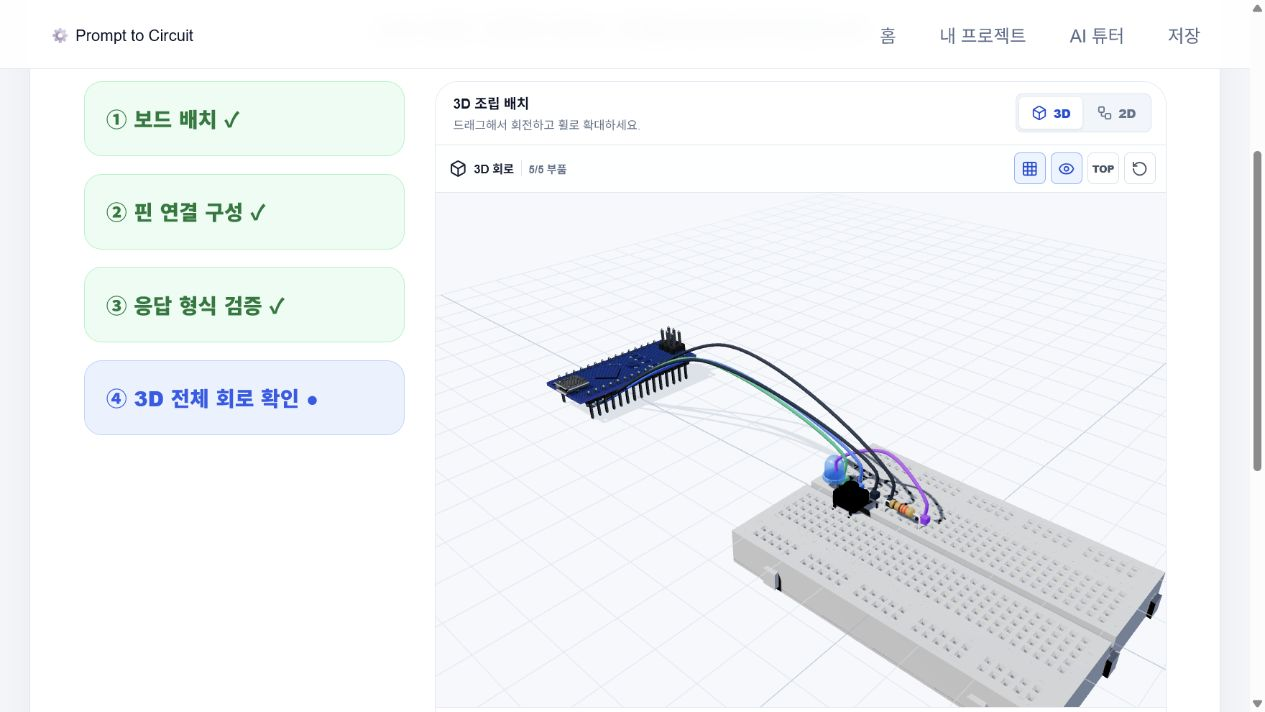
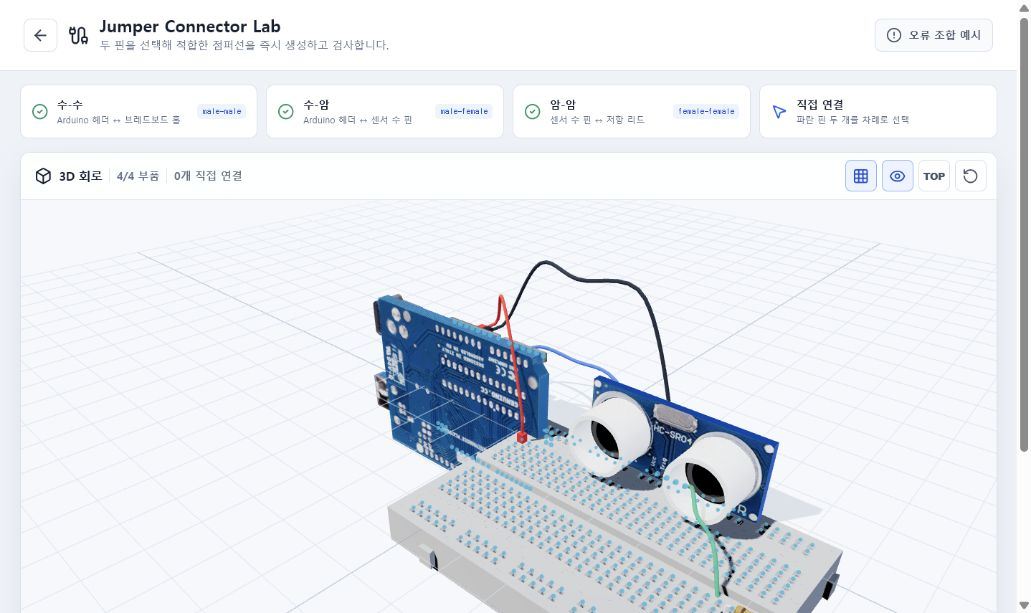
fix: route 3D wires around components

diff --git a/frontend/src/views/three/Circuit3DView.jsx b/frontend/src/views/three/Circuit3DView.jsx
@@ -7,9 +7,11 @@ import pinCatalog from "../../assets/all_component_pin_coordinates.json";
 import { modelRegistry } from "./modelRegistry.js";
 import { resolveAssemblyParts } from "./assemblyCircuit.js";
 import { breadboardHoleRatios, resolveBreadboardWires } from "./breadboardWiring.js";
+import { obstacleClearanceHeight } from "./wireCollision.js";
 import {
   calculateCurveProfile,
   createPinEndpoint,
+  insertionDepthSceneUnits,
   JUMPER_SPEC,
   resolveJumperWire,
 } from "./jumperWireSystem.js";
@@ -17,8 +19,7 @@ import {
 const assetBySlug = new Map(modelRegistry.map((asset) => [asset.slug, asset]));
 const REAL_WORLD_SCENE_UNITS_PER_METER = 80;
 const CONNECTOR_SHELL_HEIGHT = 0.24;
-const CONNECTOR_SEATING_DEPTH = 0.045;
-const BREADBOARD_INSERTION_DEPTH = 0.11;
+const MALE_CONNECTOR_SEAT_DEPTH = 0.04;
 const BOARD_HEADER_ROW_RATIO = 0.425;
 
 const modelProfiles = {
@@ -364,10 +365,7 @@ function makePinTarget(record, pinKey) {
 function makeConnector(position, direction, color, connectorType, endpoint) {
   const group = new THREE.Group();
   const normalizedDirection = direction.clone().normalize();
-  const insertionLength = Math.min(
-    0.52,
-    Math.max(0.12, Number(endpoint.insertionDepthMillimeter ?? 2) * 0.08),
-  );
+  const insertionLength = insertionDepthSceneUnits(endpoint);
   const shellMaterial = new THREE.MeshStandardMaterial({
     color: connectorType === "female" ? 0x111827 : color,
     metalness: 0.18,
@@ -380,18 +378,20 @@ function makeConnector(position, direction, color, connectorType, endpoint) {
   shell.position.y = CONNECTOR_SHELL_HEIGHT / 2;
   group.add(shell);
 
-  const isBreadboardInsertion = endpoint.kind === "breadboard-hole";
-  const pinIsInsideSocket = connectorType === "male"
-    && endpoint.interfaceGender === "female";
-  if (connectorType === "male" && (!pinIsInsideSocket || isBreadboardInsertion)) {
-    const visibleLength = isBreadboardInsertion
-      ? Math.max(0.035, insertionLength - BREADBOARD_INSERTION_DEPTH)
-      : insertionLength;
+  if (connectorType === "male") {
+    const collar = new THREE.Mesh(
+      new THREE.CylinderGeometry(0.052, 0.052, 0.035, 12),
+      new THREE.MeshStandardMaterial({ color: 0x20242b, roughness: 0.6 }),
+    );
+    collar.position.y = -0.012;
+    group.add(collar);
+
     const pin = new THREE.Mesh(
-      new THREE.BoxGeometry(0.032, visibleLength, 0.032),
+      new THREE.BoxGeometry(0.0512, insertionLength, 0.0512),
       new THREE.MeshStandardMaterial({ color: 0xc8a951, metalness: 0.8, roughness: 0.25 }),
     );
-    pin.position.y = -BREADBOARD_INSERTION_DEPTH - visibleLength / 2;
+    pin.position.y = -insertionLength / 2;
+    pin.userData.insertionDepthMillimeter = endpoint.insertionDepthMillimeter;
     group.add(pin);
   }
 
@@ -399,17 +399,16 @@ function makeConnector(position, direction, color, connectorType, endpoint) {
   // continues into the socket/hole by the requested insertion depth.
   group.position.copy(position);
   if (connectorType === "male") {
-    group.position.addScaledVector(
-      normalizedDirection,
-      isBreadboardInsertion ? -BREADBOARD_INSERTION_DEPTH : -CONNECTOR_SEATING_DEPTH,
-    );
+    group.position.addScaledVector(normalizedDirection, -MALE_CONNECTOR_SEAT_DEPTH);
   }
   group.quaternion.setFromUnitVectors(new THREE.Vector3(0, 1, 0), normalizedDirection);
+  group.userData.connectorGender = connectorType;
+  group.userData.insertionDepthSceneUnit = insertionLength;
   return group;
 }
 
 function connectorCablePosition(position, direction, connectorType) {
-  const seatingDepth = connectorType === "male" ? CONNECTOR_SEATING_DEPTH : 0;
+  const seatingDepth = connectorType === "male" ? MALE_CONNECTOR_SEAT_DEPTH : 0;
   return position.clone().addScaledVector(
     direction,
     CONNECTOR_SHELL_HEIGHT - seatingDepth,
@@ -425,6 +424,8 @@ function makeWire(
   sourceEndpoint,
   targetEndpoint,
   index,
+  obstacles,
+  excludedObstacleIds,
 ) {
   const sourceCable = connectorCablePosition(
     source,
@@ -438,6 +439,14 @@ function makeWire(
   );
   const distance = sourceCable.distanceTo(targetCable);
   const profile = calculateCurveProfile(distance, Math.abs(source.y - target.y), index);
+  const obstacleHeight = obstacleClearanceHeight(
+    sourceCable,
+    targetCable,
+    obstacles,
+    excludedObstacleIds,
+  );
+  const normalRouteHeight = Math.max(sourceCable.y, targetCable.y) + profile.lift;
+  const routeHeight = Math.max(normalRouteHeight, obstacleHeight ?? normalRouteHeight);
   const sourceRise = sourceCable.clone().addScaledVector(
     sourceDirection,
     Math.min(0.42, profile.lift * 0.32),
@@ -446,14 +455,30 @@ function makeWire(
     targetDirection,
     Math.min(0.42, profile.lift * 0.32),
   );
+  const sourceClearance = sourceCable.clone().lerp(targetCable, 0.28);
+  const targetClearance = sourceCable.clone().lerp(targetCable, 0.72);
   const midpoint = sourceCable.clone().lerp(targetCable, 0.5);
-  midpoint.y = Math.max(sourceCable.y, targetCable.y) + profile.lift;
+  if (obstacleHeight !== null) {
+    sourceClearance.y = routeHeight;
+    targetClearance.y = routeHeight;
+  }
+  midpoint.y = routeHeight;
   const lateral = targetCable.clone().sub(sourceCable).cross(new THREE.Vector3(0, 1, 0));
   if (lateral.lengthSq() > 0.0001) {
     midpoint.addScaledVector(lateral.normalize(), profile.lateralOffset);
   }
   const curve = new THREE.CatmullRomCurve3(
-    [sourceCable, sourceRise, midpoint, targetRise, targetCable],
+    obstacleHeight === null
+      ? [sourceCable, sourceRise, midpoint, targetRise, targetCable]
+      : [
+        sourceCable,
+        sourceRise,
+        sourceClearance,
+        midpoint,
+        targetClearance,
+        targetRise,
+        targetCable,
+      ],
     false,
     "centripetal",
   );
@@ -703,6 +728,19 @@ export default function Circuit3DView({ circuit, interactive = false }) {
       .then((records) => {
         if (disposed) return;
         const recordsById = new Map(records.filter(Boolean).map((record) => [record.part.id, record]));
+        const collisionObstacles = records.filter(Boolean).map((record) => {
+          record.group.updateWorldMatrix(true, true);
+          const bounds = new THREE.Box3().setFromObject(record.group);
+          return {
+            id: record.part.id,
+            minX: bounds.min.x,
+            maxX: bounds.max.x,
+            minY: bounds.min.y,
+            maxY: bounds.max.y,
+            minZ: bounds.min.z,
+            maxZ: bounds.max.z,
+          };
+        });
         const wireGroup = new THREE.Group();
         wireGroup.name = "jumper-wires";
         const pinTargetGroup = new THREE.Group();
@@ -743,6 +781,8 @@ export default function Circuit3DView({ circuit, interactive = false }) {
             sourceEndpoint,
             targetEndpoint,
             index,
+            collisionObstacles,
+            new Set([sourceRecord.part.id, targetRecord.part.id]),
           );
           group.userData.interactive = isInteractive;
           wireObjectsRef.current.set(connection.id, group);

diff --git a/frontend/src/views/three/wireCollision.js b/frontend/src/views/three/wireCollision.js
@@ -1,0 +1,43 @@
+function axisInterval(start, delta, minimum, maximum) {
+  if (Math.abs(delta) < 1e-9) {
+    return start >= minimum && start <= maximum ? [0, 1] : null;
+  }
+  const first = (minimum - start) / delta;
+  const second = (maximum - start) / delta;
+  return [Math.min(first, second), Math.max(first, second)];
+}
+
+export function segmentCrossesObstacle(source, target, obstacle, padding = 0.18) {
+  const xInterval = axisInterval(
+    source.x,
+    target.x - source.x,
+    obstacle.minX - padding,
+    obstacle.maxX + padding,
+  );
+  const zInterval = axisInterval(
+    source.z,
+    target.z - source.z,
+    obstacle.minZ - padding,
+    obstacle.maxZ + padding,
+  );
+  if (!xInterval || !zInterval) return false;
+  const entry = Math.max(0, xInterval[0], zInterval[0]);
+  const exit = Math.min(1, xInterval[1], zInterval[1]);
+  return entry <= exit;
+}
+
+export function obstacleClearanceHeight(
+  source,
+  target,
+  obstacles,
+  excludedIds = new Set(),
+  clearance = 0.3,
+) {
+  let height = null;
+  for (const obstacle of obstacles) {
+    if (excludedIds.has(obstacle.id)) continue;
+    if (!segmentCrossesObstacle(source, target, obstacle)) continue;
+    height = Math.max(height ?? Number.NEGATIVE_INFINITY, obstacle.maxY + clearance);
+  }
+  return height;
+}

diff --git a/frontend/src/views/three/wireCollision.test.js b/frontend/src/views/three/wireCollision.test.js
@@ -1,0 +1,49 @@
+import test from "node:test";
+import assert from "node:assert/strict";
+import {
+  obstacleClearanceHeight,
+  segmentCrossesObstacle,
+} from "./wireCollision.js";
+
+const sensor = {
+  id: "sensor",
+  minX: 2,
+  maxX: 4,
+  minZ: 1,
+  maxZ: 3,
+  maxY: 2.2,
+};
+
+test("detects a wire segment crossing a component footprint", () => {
+  assert.equal(
+    segmentCrossesObstacle({ x: 0, z: 2 }, { x: 6, z: 2 }, sensor),
+    true,
+  );
+  assert.equal(
+    segmentCrossesObstacle({ x: 0, z: 5 }, { x: 6, z: 5 }, sensor),
+    false,
+  );
+});
+
+test("raises a crossing wire above the tallest obstacle", () => {
+  assert.equal(
+    obstacleClearanceHeight(
+      { x: 0, z: 2 },
+      { x: 6, z: 2 },
+      [sensor, { ...sensor, id: "button", maxY: 3.1 }],
+    ),
+    3.4,
+  );
+});
+
+test("ignores source and target components when checking collisions", () => {
+  assert.equal(
+    obstacleClearanceHeight(
+      { x: 0, z: 2 },
+      { x: 6, z: 2 },
+      [sensor],
+      new Set(["sensor"]),
+    ),
+    null,
+  );
+});

diff --git a/frontend/src/views/three/jumperWireSystem.test.js b/frontend/src/views/three/jumperWireSystem.test.js
@@ -5,6 +5,7 @@ import {
   calculateCurveProfile,
   colorForWireRole,
   inferEndpointGender,
+  insertionDepthSceneUnits,
   resolveJumperWire,
   WireColorRole,
 } from "./jumperWireSystem.js";
@@ -89,4 +90,9 @@ test("uses metadata gender before component fallback", () => {
   );
   assert.equal(inferEndpointGender("arduino-uno-r3", null), "female");
   assert.equal(inferEndpointGender("arduino-nano", null), "female");
+});
+
+test("converts connector insertion depth from millimeters to scene units", () => {
+  assert.equal(insertionDepthSceneUnits({ insertionDepthMillimeter: 6 }), 0.48);
+  assert.equal(insertionDepthSceneUnits({ insertionDepthMillimeter: 2 }), 0.16);
 });

diff --git a/frontend/src/views/three/jumperWireSystem.js b/frontend/src/views/three/jumperWireSystem.js
@@ -16,6 +16,14 @@ export const JUMPER_SPEC = Object.freeze({
   wireRadiusSceneUnit: 0.035,
 });
 
+export function insertionDepthSceneUnits(endpoint, sceneUnitsPerMillimeter = 0.08) {
+  const millimeters = Number(
+    endpoint?.insertionDepthMillimeter
+    ?? JUMPER_SPEC.defaultInsertionDepthMillimeter,
+  );
+  return Math.min(0.52, Math.max(0.12, millimeters * sceneUnitsPerMillimeter));
+}
+
 const SIGNAL_COLORS = Object.freeze([
   "#2563eb",
   "#059669",
